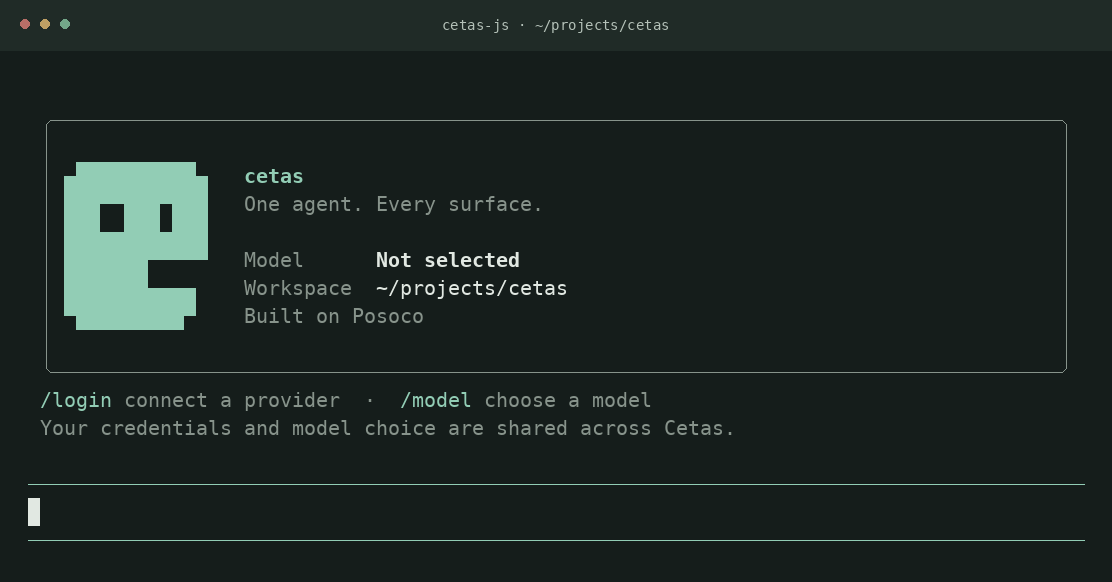
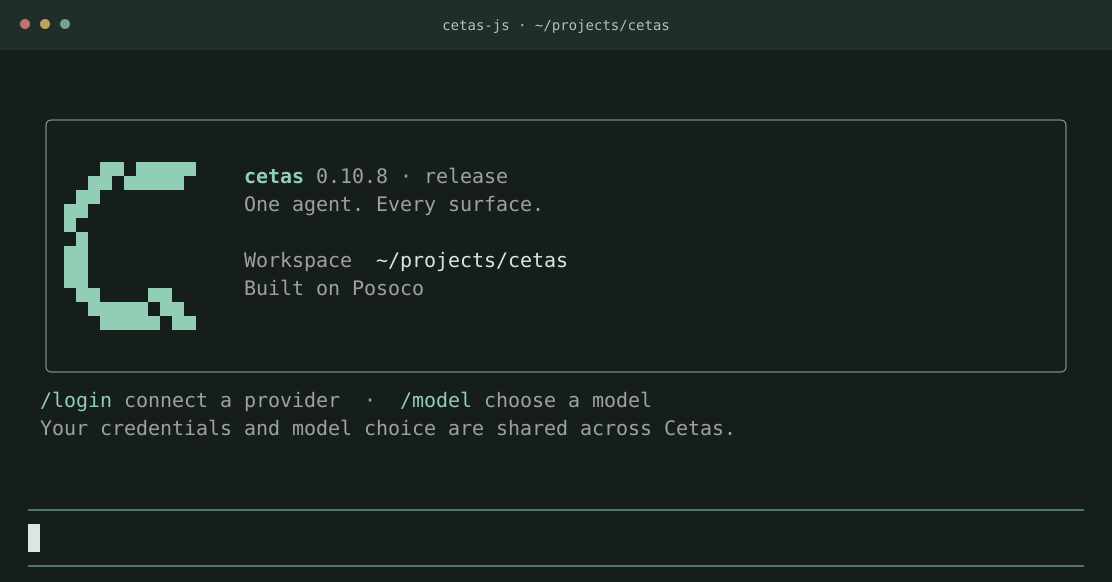
Replace Wakeful branding with Modular Cut identity

diff --git a/cetas-js/ui/welcome-header.ts b/cetas-js/ui/welcome-header.ts
@@ -7,17 +7,8 @@ import {
 } from "@earendil-works/pi-tui";
 import type { AppState } from "../src/app/types.ts";
 import type { Channel } from "../src/app/version.ts";
+import { MODULAR_CUT } from "./brand-mark.ts";
 import { theme } from "./theme.ts";
-
-// A six-row terminal cut of the Wakeful mark, using half-block cells.
-const WAKEFUL = [
-  "▄██████████▄",
-  "███▀▀███▀▀███",
-  "███▄▄███▄▄███",
-  "███████▀▀▀▀▀",
-  "███████▄▄▄▄ ",
-  "▀█████████▀ ",
-] as const;
 
 export interface WelcomeHeaderSource {
   cwd: string;
@@ -89,7 +80,7 @@ export function renderWelcomeHeader(
     "",
   ];
   const body = columns >= 64
-    ? context.map((value, i) => row(theme.brand(WAKEFUL[i]) + "   " + value))
+    ? context.map((value, i) => row(theme.brand(MODULAR_CUT[i]) + "   " + value))
     : [context[0], context[1], context[3], context[4]].map(row);
   const narrow = columns < 64;
   const guidance = starting

diff --git a/cetas-js/ui/brand-mark.ts b/cetas-js/ui/brand-mark.ts
@@ -1,0 +1,10 @@
+// Generated by scripts/update_brand.py; do not edit by hand.
+// Optical six-row cut of the Modular Cut mark, using half-block cells.
+export const MODULAR_CUT = [
+  "  ▄█▀▄████▀ ",
+  "▄█▀         ",
+  "▀▄          ",
+  "██          ",
+  "▀█▄    ▄▄   ",
+  "  ▀████▄▀█▄ ",
+] as const;

diff --git a/scripts/update_brand.py b/scripts/update_brand.py
@@ -1,0 +1,83 @@
+#!/usr/bin/env python3
+"""Regenerate Cetas SVG assets and its terminal cut; --check detects drift."""
+from __future__ import annotations
+
+import argparse
+import json
+from pathlib import Path
+
+ROOT = Path(__file__).resolve().parent.parent
+# Integer lattice; all edges are horizontal, vertical or +/-45 degrees.
+# The two cuts have normal width 1/sqrt(2): x+y=10/11 and y-x=5/6.
+MASTER = [
+    [(6, 0), (10, 0), (0, 10), (0, 6)],
+    [(11, 0), (22, 0), (18, 4), (7, 4)],
+    [(0, 11), (4, 7), (4, 16), (6, 18), (12, 18), (16, 22), (6, 22), (0, 16)],
+    [(12, 17), (17, 17), (22, 22), (17, 22)],
+]
+# Optical cut for favicons/terminal cells: double BOTH gaps, keep the silhouette.
+SMALL = [
+    MASTER[0],
+    [(12, 0), (22, 0), (18, 4), (8, 4)],
+    [(0, 12), (4, 8), (4, 16), (6, 18), (12, 18), (16, 22), (6, 22), (0, 16)],
+    [(13, 17), (17, 17), (22, 22), (18, 22)],
+]
+
+
+def svg(polygons, color: str, adaptive: bool = False) -> str:
+    style = '<style>polygon{fill:#256C63}@media(prefers-color-scheme:dark){polygon{fill:#DDF2E6}}</style>' if adaptive else ''
+    paths = ''.join('<polygon points="' + ' '.join(f'{x},{y}' for x, y in p) + '"/>' for p in polygons)
+    return ('<svg xmlns="http://www.w3.org/2000/svg" viewBox="-3 -3 28 28" '
+            'width="256" height="256" role="img"><title>Cetas - Modular Cut symbol</title>'
+            + style + f'<g fill="{color}">' + paths + '</g></svg>\n')
+
+
+def contains(p, x: float, y: float) -> bool:
+    odd = False
+    for (ax, ay), (bx, by) in zip(p, p[1:] + p[:1]):
+        if (ay > y) != (by > y) and x < (bx-ax)*(y-ay)/(by-ay)+ax:
+            odd = not odd
+    return odd
+
+
+def terminal_rows() -> list[str]:
+    # A cell is roughly twice as tall as wide: 12 columns x 6 half-block rows.
+    pixels = [[any(contains(p, (x+.5)*22/12, (y+.5)*22/12) for p in SMALL)
+               for x in range(12)] for y in range(12)]
+    return [''.join(' ▀▄█'[int(a) + 2*int(b)] for a, b in zip(pixels[y], pixels[y+1]))
+            for y in range(0, 12, 2)]
+
+
+def outputs() -> dict[Path, str]:
+    rows = '\n'.join('  ' + json.dumps(row, ensure_ascii=False) + ',' for row in terminal_rows())
+    return {
+        ROOT/'docs/assets/cetas-symbol.svg': svg(MASTER, '#256C63'),
+        ROOT/'docs/assets/cetas-symbol-dark.svg': svg(MASTER, '#DDF2E6'),
+        ROOT/'cetas-website/public/cetas-logo.svg': svg(MASTER, '#256C63', adaptive=True),
+        ROOT/'cetas-website/public/favicon.svg': svg(SMALL, '#256C63', adaptive=True),
+        ROOT/'cetas-js/ui/brand-mark.ts': '// Generated by scripts/update_brand.py; do not edit by hand.\n'
+            '// Optical six-row cut of the Modular Cut mark, using half-block cells.\n'
+            'export const MODULAR_CUT = [\n' + rows + '\n] as const;\n',
+    }
+
+
+def main() -> int:
+    parser = argparse.ArgumentParser(description=__doc__)
+    parser.add_argument('--check', action='store_true')
+    args = parser.parse_args()
+    stale = []
+    for path, content in outputs().items():
+        if args.check:
+            if not path.exists() or path.read_text() != content:
+                stale.append(str(path.relative_to(ROOT)))
+        else:
+            path.write_text(content)
+    if stale:
+        print('Brand assets need regeneration: ' + ', '.join(stale))
+        return 1
+    print('Brand assets are up to date.' if args.check else 'Regenerated brand assets.')
+    return 0
+
+
+if __name__ == '__main__':
+    raise SystemExit(main())

diff --git a/docs/architecture.md b/docs/architecture.md
@@ -42,4 +42,4 @@ The core keeps the product identity consistent. A shared Cetas home makes provid
 
 ## Visual identity
 
-The Cetas mark is the Wakeful character: a compact C silhouette with two eyes. The README uses light/dark SVG variants in [`docs/assets/`](assets/), and the JS welcome header uses a small terminal rendering of the same character. Branding remains presentation; the welcome screen reads safe application snapshots and never parses provider secrets.
+The Cetas mark is Modular Cut: a polygonal C built on an integer grid with 45° edges and two straight, equally wide cuts. The upper-left cut runs through the top edge. The README uses light/dark SVG variants in [`docs/assets/`](assets/); the documentation site uses an adaptive SVG and a favicon with wider cuts for small sizes. The JS welcome header uses a six-row half-block rendering of the same small-size cut. Regenerate these assets with `python3 scripts/update_brand.py`, or verify they match the shared geometry with `python3 scripts/update_brand.py --check`. Branding remains presentation; the welcome screen reads safe application snapshots and never parses provider secrets.
